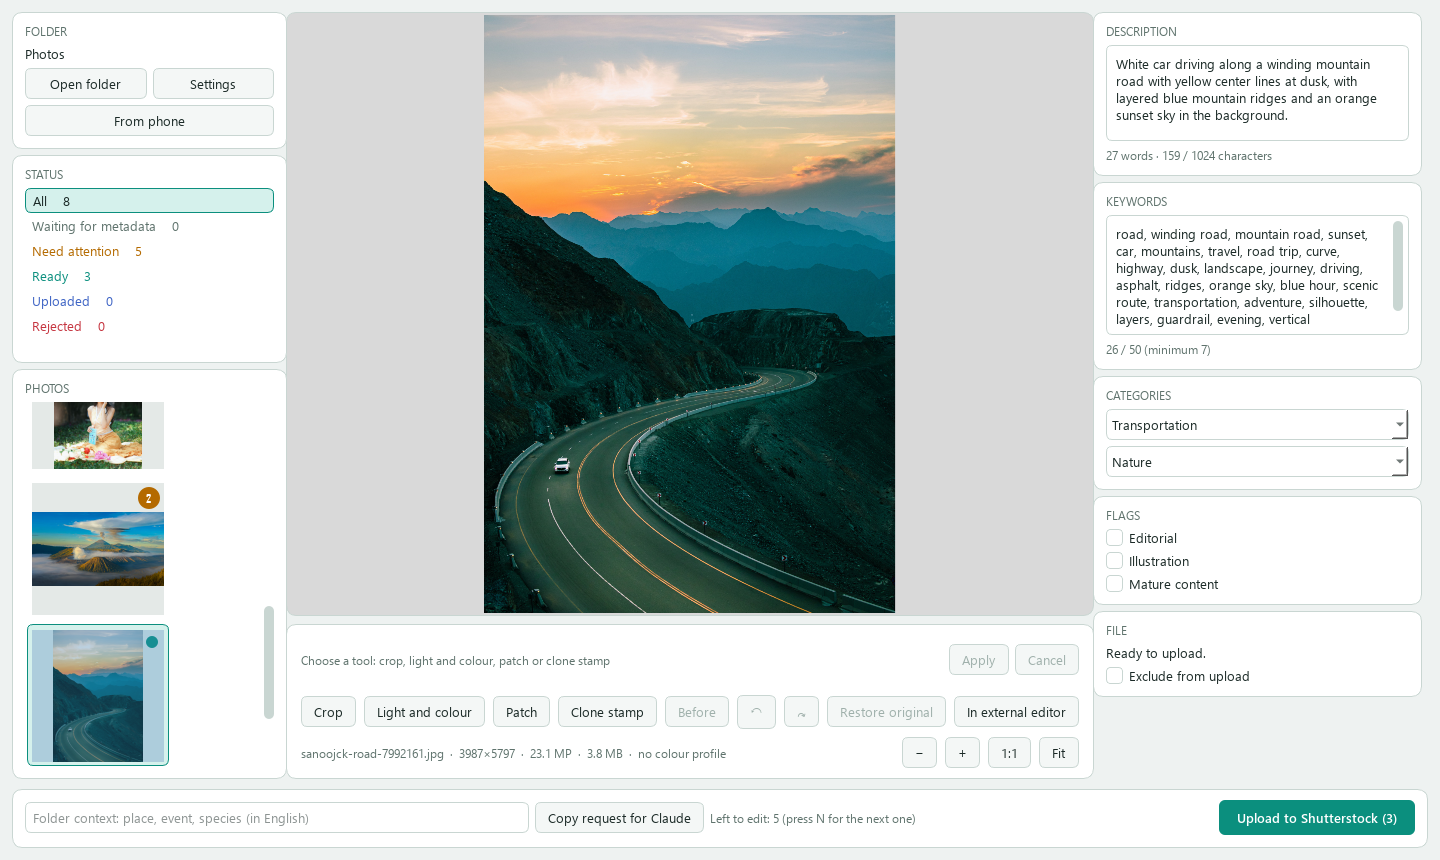
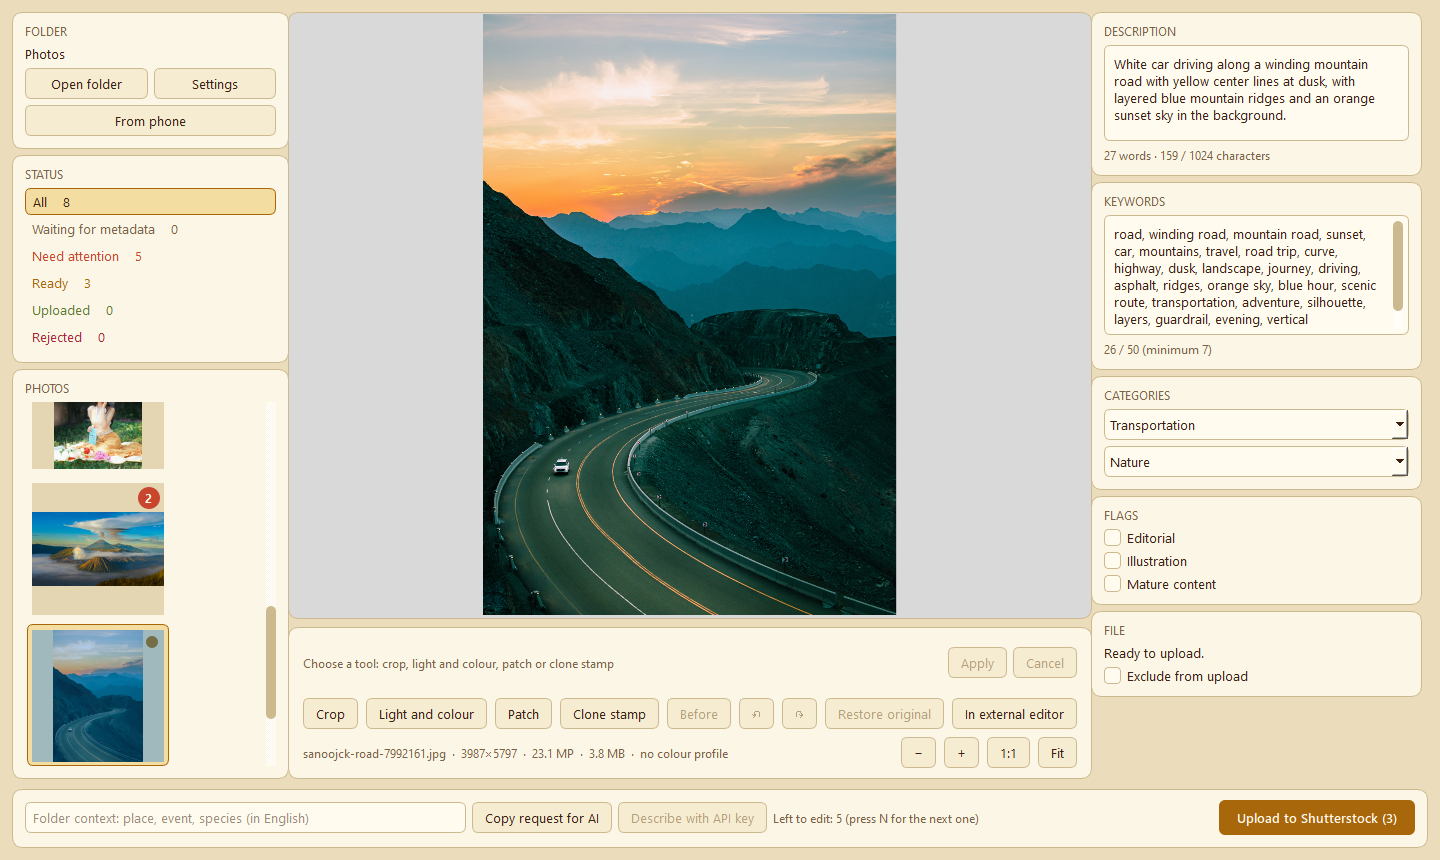
Brown and beige themes, full-screen window

diff --git a/CHANGELOG.md b/CHANGELOG.md
@@ -11,6 +11,7 @@
 - Прийом знімків з телефона через Wi-Fi за QR-кодом; автоматичне підхоплення нових файлів у теці.
 - Надсилання за FTPS із відновленням після обриву; CSV у форматі сторінки Submit.
 - Інтерфейс англійською (за замовчуванням), німецькою та українською; темна й світла теми.
+- Вікно завжди відкривається на весь екран. Дизайн у кольорах значка програми: темна тема коричнева, світла бежева, акцент гірчичний.
 - Значок програми; збирання в exe через PyInstaller.
 - Прийом з телефона: сервер слухає один мережевий адаптер (адреса визначається на комп'ютері користувача, за кількох адаптерів вибирається у вікні), ключ в адресі 96 біт, ліміти, тайм-аути, безпечні імена файлів, загальні відповіді про помилки.
 - Геолокація (GPS) видаляється з копій для завантаження на сток (налаштування ввімкнено за замовчуванням); оригінали не змінюються.

diff --git a/README.ua.md b/README.ua.md
@@ -6,7 +6,7 @@
 
 Програма для Windows, яка готує фотографії до продажу на Shutterstock: перевіряє файли, показує описи та ключові слова для правки, дає змогу підправити знімок і завантажує все на сток.
 
-![Вікно програми](design/light_en.png)
+![Вікно програми](design/dark_en.png)
 
 ## Про програму
 

diff --git a/docs/USER_GUIDE.md b/docs/USER_GUIDE.md
@@ -12,7 +12,7 @@
 
 ## Вікно програми
 
-![Вікно програми](../design/light_en.png)
+![Вікно програми](../design/dark_en.png)
 
 - **Ліворуч** — тека, фільтр за станами та мініатюри знімків.
 - **У центрі** — вибраний знімок і інструменти редактора під ним.

diff --git a/README.de.md b/README.de.md
@@ -6,7 +6,7 @@
 
 Ein Windows-Programm, das Fotos für den Verkauf bei Shutterstock vorbereitet: Es prüft die Dateien, zeigt Beschreibungen und Schlagwörter zum Bearbeiten, erlaubt kleine Bildkorrekturen und lädt alles zur Agentur hoch.
 
-![Programmfenster](design/light_en.png)
+![Programmfenster](design/dark_en.png)
 
 ## Über das Programm
 

diff --git a/README.md b/README.md
@@ -6,7 +6,7 @@
 
 A Windows program that prepares photos for sale on Shutterstock: it checks the files, shows descriptions and keywords for editing, lets you touch up a photo and uploads everything to the stock site.
 
-![Program window](design/light_en.png)
+![Program window](design/dark_en.png)
 
 ## About
 
